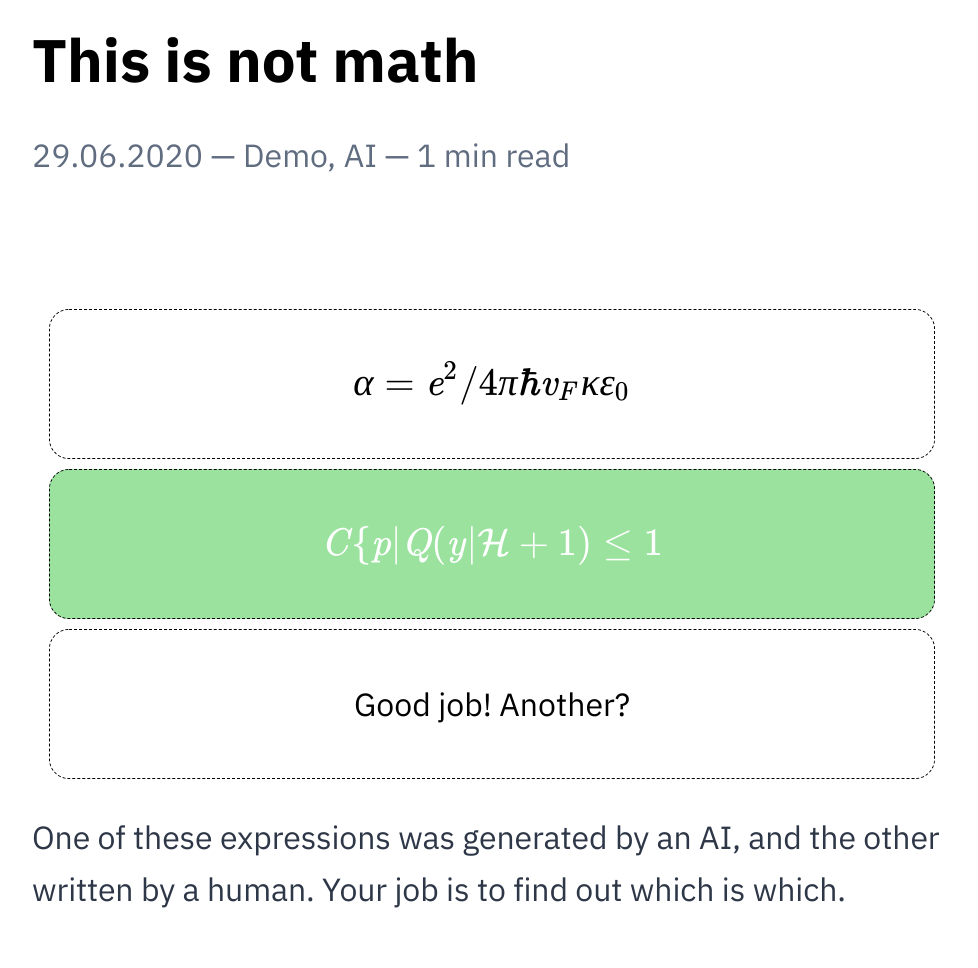
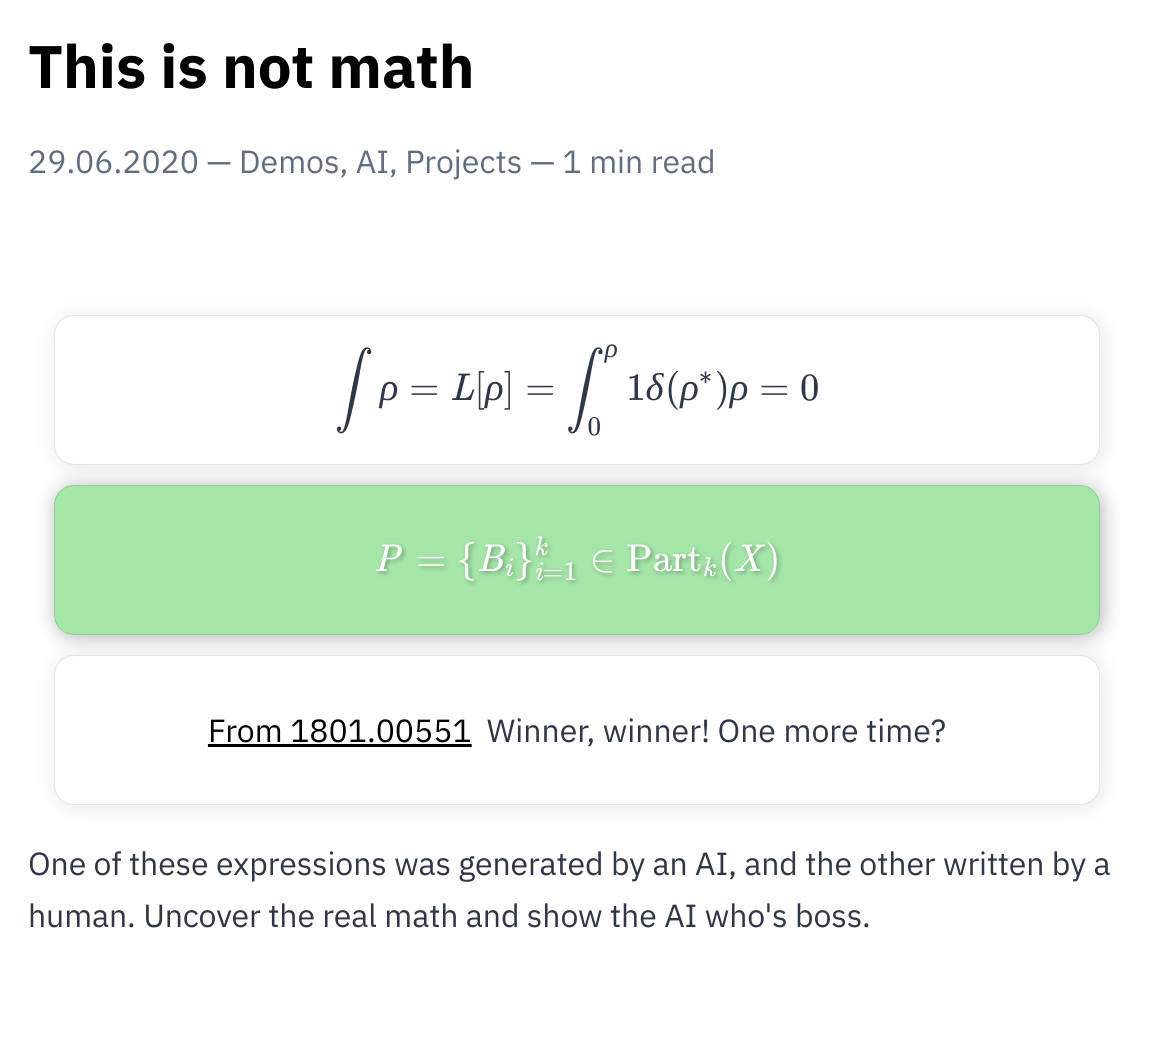
kill remainder of rendering errors

diff --git a/content/posts/2020-06-09--Math/math_game.js b/content/posts/2020-06-09--Math/math_game.js
@@ -72,9 +72,10 @@ export const GuessWho = () => {
       alignItems: 'center',
       justifyContent: 'center',
       borderRadius: '10px',
-      overflow: 'hidden',
-      padding: '20px',
-      height: '75px',
+      overflow: 'scroll',
+      padding: '10px',
+      height: 'auto',
+      minHeight: '75px',
       border: 'rgba(0,0,0,.1) thin solid',
       width: 'min(90vw, 600px)',
       margin: 'auto',
@@ -119,7 +120,7 @@ export const GuessWho = () => {
     <div>
       <a
       href={`https://arxiv.org/abs/${h_label}`}
-      style={{color: 'black'}}
+      style={{color: ''}}
       >{ `From ${h_label}`}</a> &nbsp;
       {getRandomElem(win_msg)}
     </div>
@@ -138,7 +139,7 @@ function getRandomInt(max) {
 
 function rendering(el) {
   try {
-    katex.renderToString(el, {
+    const exp = katex.renderToString(el, {
       displayMode: false,
       throwOnError:true,
       strict: "error",
@@ -148,9 +149,9 @@ function rendering(el) {
         "\\textup": "\\text",
       },
     });
-    return true;
+    return exp;
   } catch {
-    return false;
+    return "";
   }
 }
 
@@ -164,14 +165,19 @@ function getRandomElem(indexable) {
 
 function getRandomCorrect(indexable) {
   const labelLen = "1801.00497".length;
-  let exp= indexable[getRandomInt(indexable.length)].replace(/%(.*?)/g, "").substring(0,200);
-  while (! rendering(exp) ) {
-    exp= indexable[getRandomInt(indexable.length)];
+  let line = indexable[getRandomInt(indexable.length)].replace(/%(.*?)/g, "").substring(0,200);
+  let label = line.substring(0,labelLen);
+  let exp = line.substring(labelLen);
+  // keep trying until the string does not error or contain error messages
+  while (! rendering(exp) || rendering(exp).includes("KaTeX") ) {
+    line = indexable[getRandomInt(indexable.length)];
+    label = line.substring(0,labelLen);
+    exp = line.substring(labelLen);
   }
   console.log(exp)
   return {
-    label: exp.substring(0,labelLen),
-    real_exp: exp.substring(labelLen)
+    label: label,
+    real_exp: exp
   }
 
 }

diff --git a/src/components/layout.tsx b/src/components/layout.tsx
@@ -26,7 +26,7 @@ const Layout = ({ children, className }: LayoutProps) => (
         },
         a: {
           transition: `all 0.3s ease-in-out`,
-          color: `text`,
+          color: theme.colors.text,
         },
         img: {
           maxWidth: "min(90vw, 960px)",
